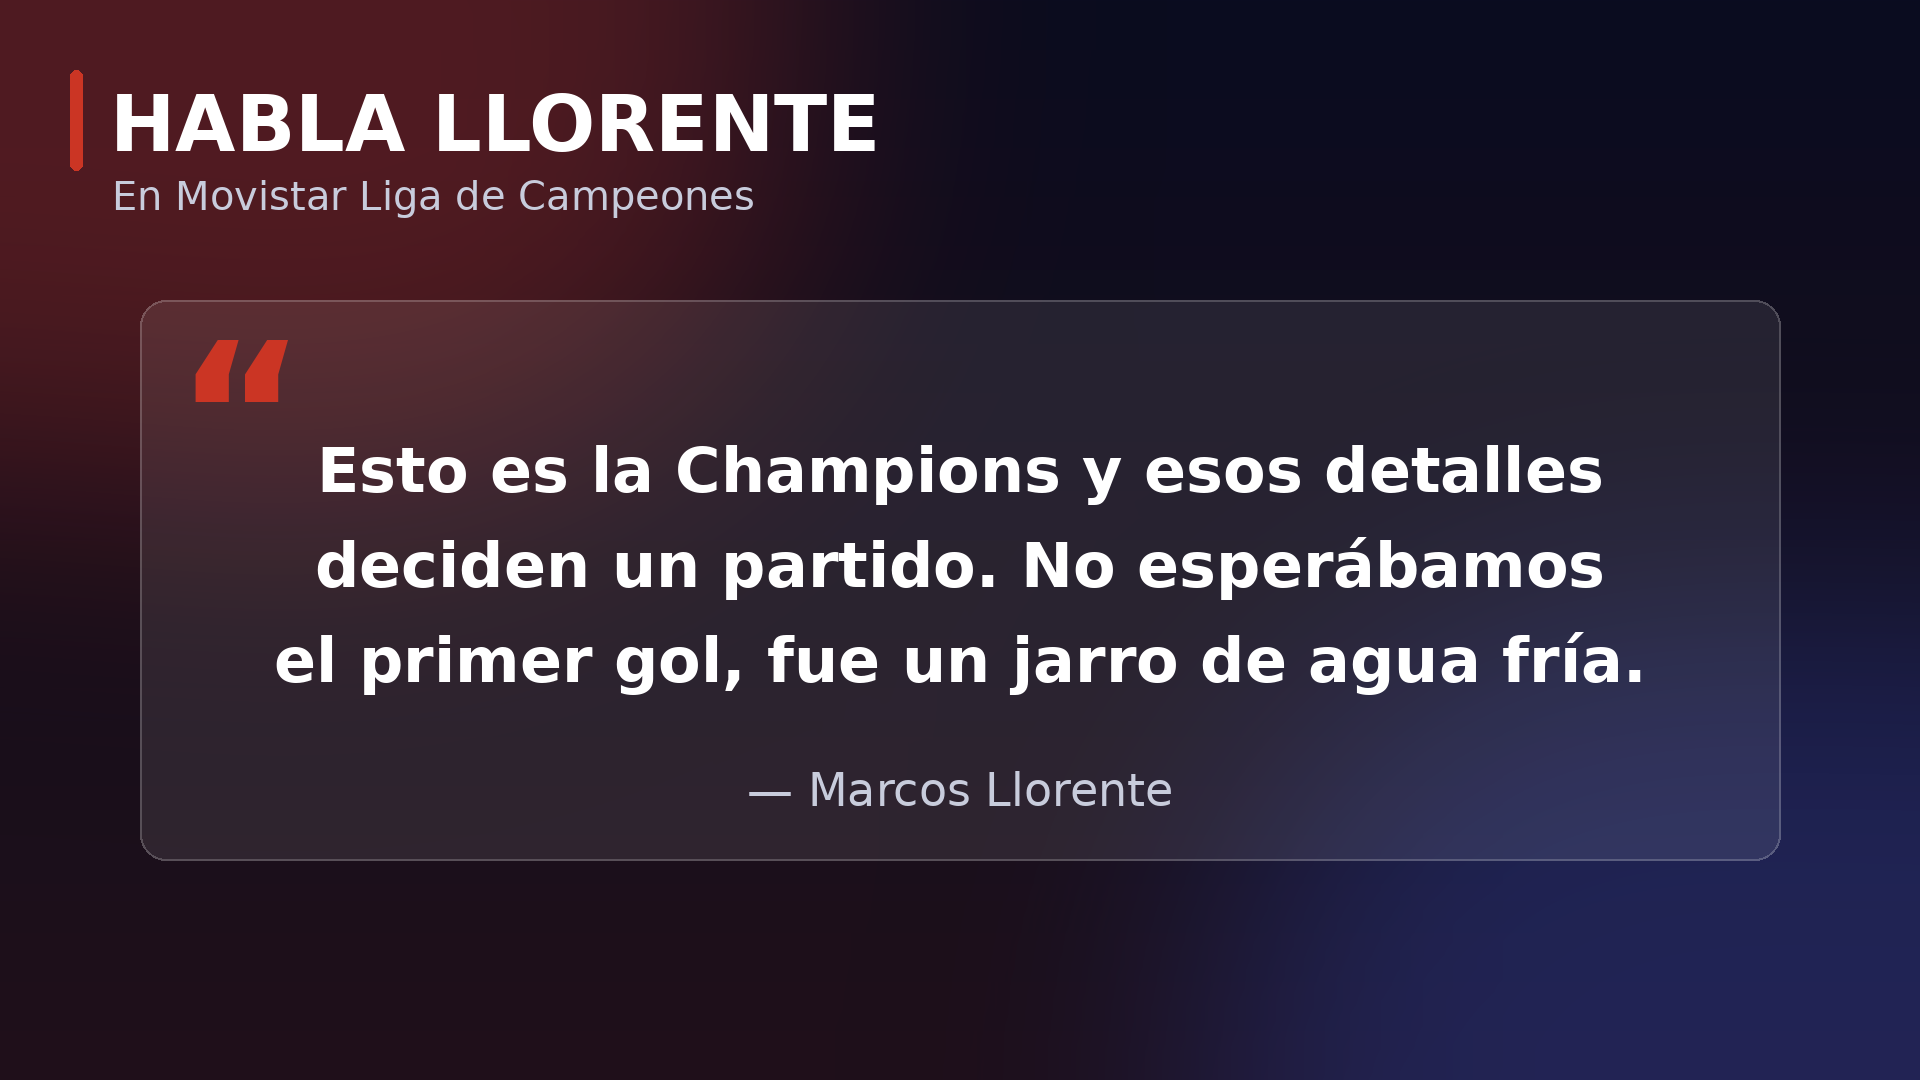
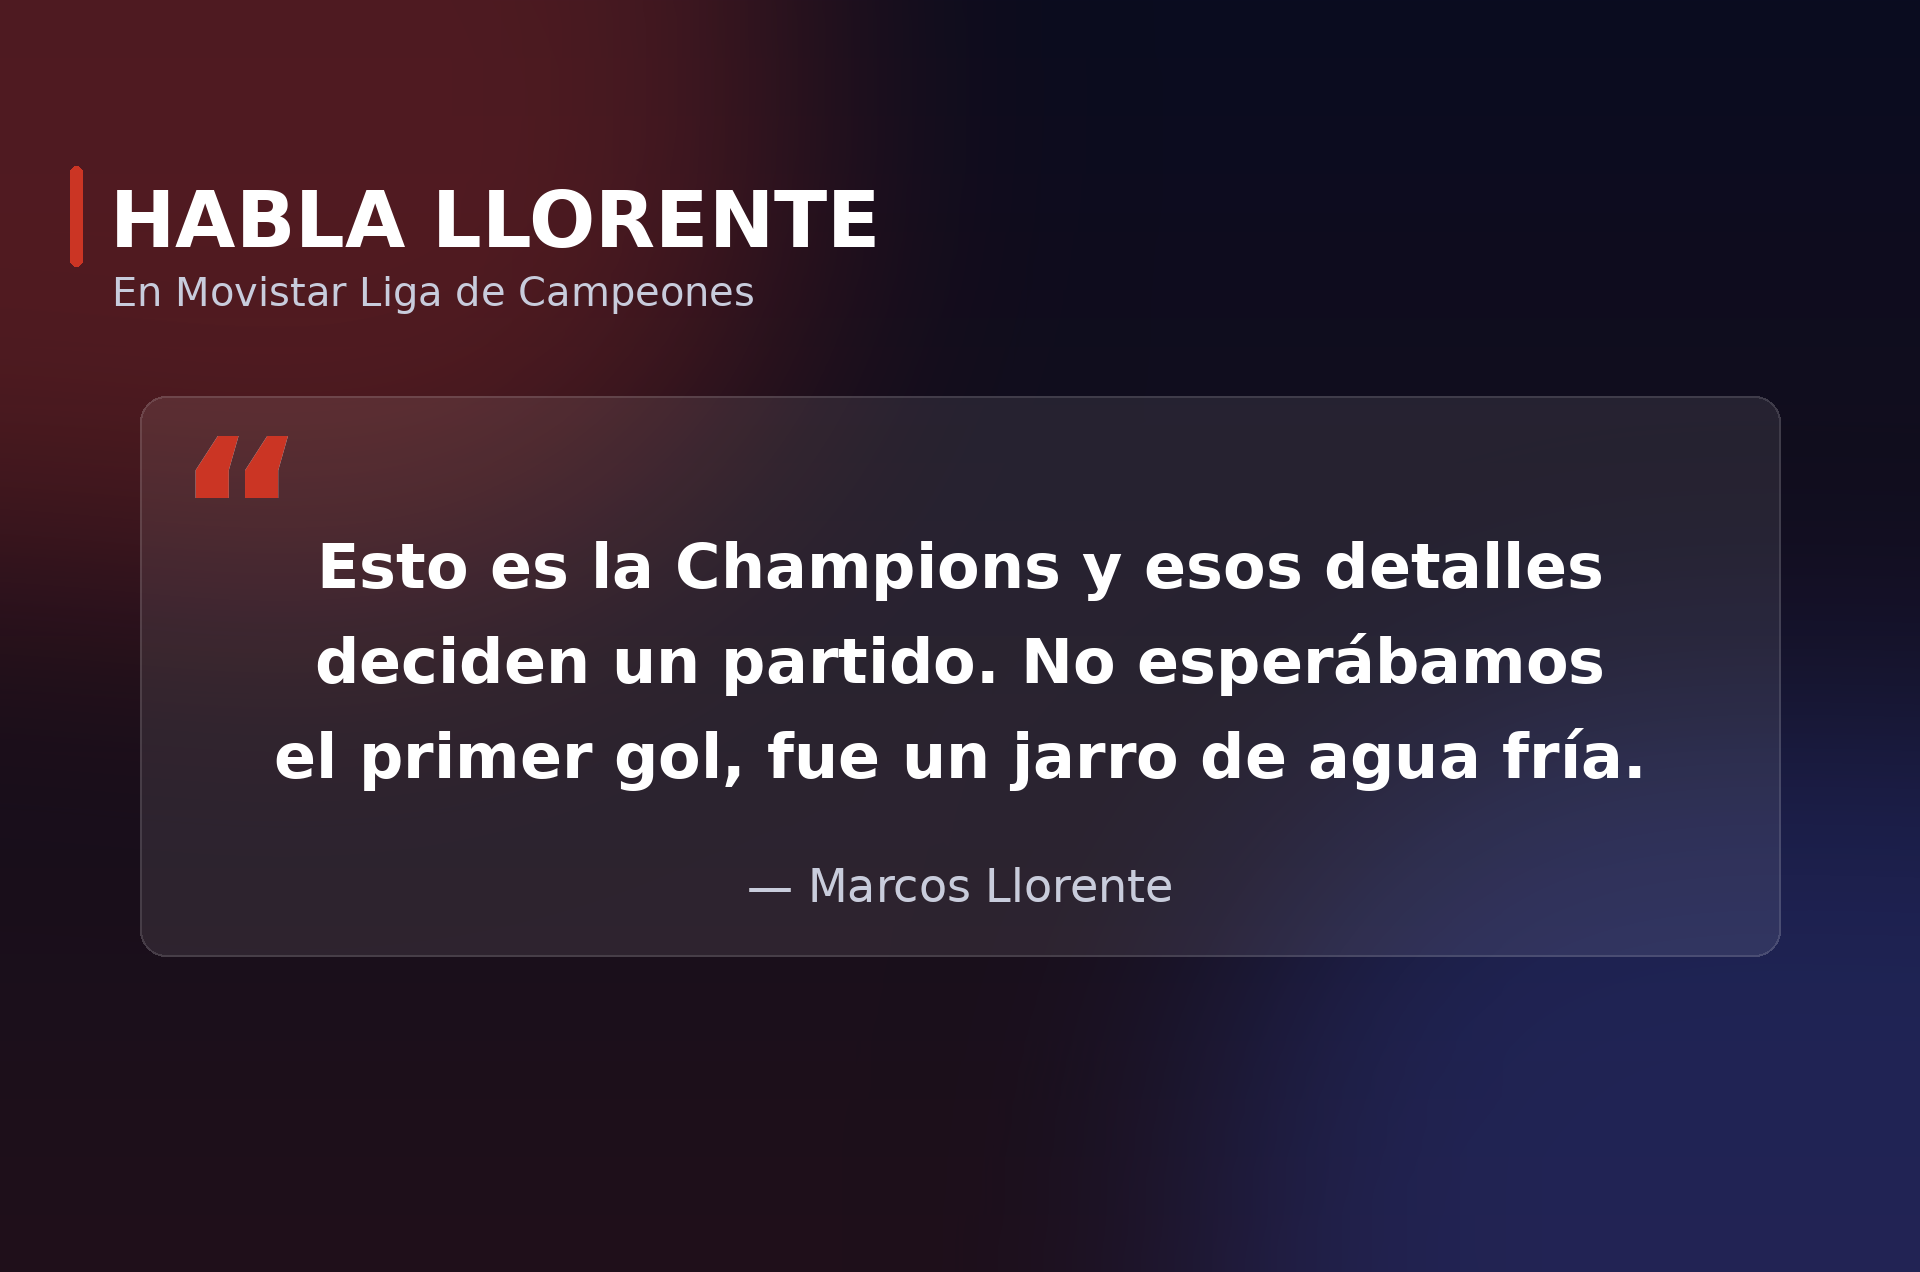
Plató: imagen a pantalla completa y presentador sin gestos en horizontal
- La imagen rellena siempre toda la pantalla del plató (y el panel del Short),
  sin franjas.
- El presentador horizontal mantiene una sola postura, como el vertical.
- Imágenes del resumen del Bayern con la proporción de la pantalla.

Claude-Session: https://claude.ai/code/session_012a1WDV7vX57tvA9GzvRdCG

diff --git a/scripts/plato/vertical.py b/scripts/plato/vertical.py
@@ -6,7 +6,7 @@ En el json, "plato": {"paneles": [{"ruta": ..., "titulo": ..., "sub": ..., "fras
 reparte las frases entre los paneles por orden."""
 import json, math, os, subprocess, sys
 import numpy as np
-from PIL import Image, ImageDraw, ImageFilter
+from PIL import Image, ImageDraw, ImageFilter, ImageOps
 AQUI = os.path.dirname(os.path.abspath(__file__)); RAIZ = os.path.join(AQUI, "..", "..")
 sys.path.insert(0, AQUI); sys.path.insert(0, os.path.join(RAIZ, "scripts"))
 import demo, plato_render as pr, secuencia as SQ
@@ -22,13 +22,11 @@ VENTANA = (552, 255, 1092, 755)
 
 def panel(info):
     x0, y0, x1, y1 = B; w, h = x1 - x0, y1 - y0
-    if info.get("completa"):  # imagen 16:9 entera dentro del panel, con borde rojo
-        im = Image.new("RGBA", (w, h), (0, 0, 0, 0)); d = ImageDraw.Draw(im)
-        foto = Image.open(info["ruta"]).convert("RGB"); foto.thumbnail((w - 12, h - 12), Image.LANCZOS)
-        fx, fy = (w - foto.width) // 2, (h - foto.height) // 2
-        d.rounded_rectangle([fx - 6, fy - 6, fx + foto.width + 5, fy + foto.height + 5], 22, fill=ROJO)
-        m = Image.new("L", foto.size, 0); ImageDraw.Draw(m).rounded_rectangle([0, 0, foto.width - 1, foto.height - 1], 18, fill=255)
-        im.paste(foto, (fx, fy), m)
+    if info.get("completa"):  # la imagen ocupa el panel entero, con borde rojo
+        foto = ImageOps.fit(Image.open(info["ruta"]).convert("RGB"), (w, h), Image.LANCZOS).convert("RGBA")
+        m = Image.new("L", (w, h), 0); ImageDraw.Draw(m).rounded_rectangle([0, 0, w - 1, h - 1], 26, fill=255)
+        im = Image.new("RGBA", (w, h), (0, 0, 0, 0)); im.paste(foto, (0, 0), m)
+        ImageDraw.Draw(im).rounded_rectangle([0, 0, w - 1, h - 1], 26, outline=ROJO + (255,), width=6)
         return im
     im = Image.new("RGBA", (w, h), (0, 0, 0, 0)); d = ImageDraw.Draw(im)
     d.rounded_rectangle([0, 0, w - 1, h - 1], 28, fill=(16, 20, 38, 235), outline=(203, 53, 36, 255), width=4)
@@ -126,6 +124,9 @@ def main(ruta_json, salida):
     from nombres import aplicar
     n = aplicar(json.load(open(ruta_json, encoding="utf-8")))
     paneles = n["plato"]["paneles"]
+    global A_ALTO, B, VENTANA
+    if all(p.get("completa") for p in paneles):
+        A_ALTO, B, VENTANA = 800, (40, 818, 1040, 1480), (552, 305, 1092, 705)
     for p in paneles:
         if not os.path.isabs(p["ruta"]): p["ruta"] = os.path.join(RAIZ, p["ruta"])
         if "brillo" in p: p["brillo"] = tuple(p["brillo"])

diff --git a/scripts/plato/noticia.py b/scripts/plato/noticia.py
@@ -16,9 +16,7 @@ def main(ruta_json, salida):
     # La pantalla del plató es 16:9: se centra la imagen de la noticia sobre fondo oscuro
     from PIL import Image
     tmp = os.path.join(os.path.dirname(os.path.abspath(salida)), "plato_tmp"); os.makedirs(tmp, exist_ok=True)
-    src = Image.open(img).convert("RGB"); lienzo = Image.new("RGB", (1920, 1080), (14, 18, 34))
-    src.thumbnail((1920, 1080), Image.LANCZOS); lienzo.paste(src, ((1920 - src.width) // 2, (1080 - src.height) // 2))
-    slide = os.path.join(tmp, "pantalla.png"); lienzo.save(slide)
+    slide = img
     frases = [f["hablado"] if isinstance(f, dict) else f for f in n["frases"]]
     paneles = n.get("plato", {}).get("paneles")
     if paneles:  # varias imágenes: cada una ocupa la pantalla durante sus frases
@@ -28,9 +26,7 @@ def main(ruta_json, salida):
         rutas = []
         for k, p in enumerate(paneles):
             r = p["ruta"] if os.path.isabs(p["ruta"]) else os.path.join(RAIZ, p["ruta"])
-            src = Image.open(r).convert("RGB"); lz = Image.new("RGB", (1920, 1080), (14, 18, 34))
-            src.thumbnail((1920, 1080), Image.LANCZOS); lz.paste(src, ((1920 - src.width) // 2, (1080 - src.height) // 2))
-            rutas.append(os.path.join(tmp, f"pantalla{k}.png")); lz.save(rutas[-1])
+            rutas.append(r)
         demo.GUION = [("centro", None, frases[0])] + [("pantalla", rutas[de_frase[i]], frases[i]) for i in range(1, len(frases))]
     else:
         demo.GUION = [("centro", None, frases[0])] + [("pantalla", slide, f) for f in frases[1:]]

diff --git a/scripts/plato/estudio.py b/scripts/plato/estudio.py
@@ -1,5 +1,5 @@
 import sys, numpy as np
-from PIL import Image, ImageDraw, ImageFilter
+from PIL import Image, ImageDraw, ImageFilter, ImageOps
 K = 3            # escala del lienzo respecto a la imagen del plató
 T, B = 200, 330  # extensión de techo y suelo (px de la imagen original)
 
@@ -31,8 +31,7 @@ def poner_en_pantalla(lienzo, slide_path, quad):
     alto = ((q[3][1] - q[0][1]) + (q[2][1] - q[1][1])) / 2
     sl = Image.open(slide_path).convert("RGB")
     sw = 1920; sh = int(sw * alto / ancho)
-    lb = Image.new("RGB", (sw, sh), (4, 4, 8)); s2 = sl.resize((sw, int(sw * 9 / 16)), Image.LANCZOS)
-    lb.paste(s2, (0, (sh - s2.height) // 2))
+    lb = ImageOps.fit(sl, (sw, sh), Image.LANCZOS)  # la imagen ocupa toda la pantalla
     dst = [(x - bx0, y - by0) for x, y in q]; src = [(0, 0), (sw, 0), (sw, sh), (0, sh)]
     warp = lb.transform((bx1 - bx0, by1 - by0), Image.PERSPECTIVE, _coef(dst, src), Image.BICUBIC)
     m = Image.new("L", warp.size, 0); ImageDraw.Draw(m).polygon(dst, fill=255)

diff --git a/scripts/plato/plato_render.py b/scripts/plato/plato_render.py
@@ -91,7 +91,7 @@ def render(fondo_centro, fondo_pantalla, pres_png, tramos, voz_wav, salida_mp4, 
     """tramos: lista de (inicio_s, fin_s, plano, slide_png o None)."""
     pres = Presentador()
     lienzos = {"centro": extender(fondo_centro), "pantalla": extender(fondo_pantalla)}
-    plan = SQ.plan(tramos)
+    plan = [(0.0, "f01"), (tramos[-1][1] + 1, "f01")]  # una sola postura: sin gestos ni fundidos de manos
     con_slide = {}
     dur = tramos[-1][1]; n = int(round(dur * FPS))
     boca = envolvente(voz_wav, n)
